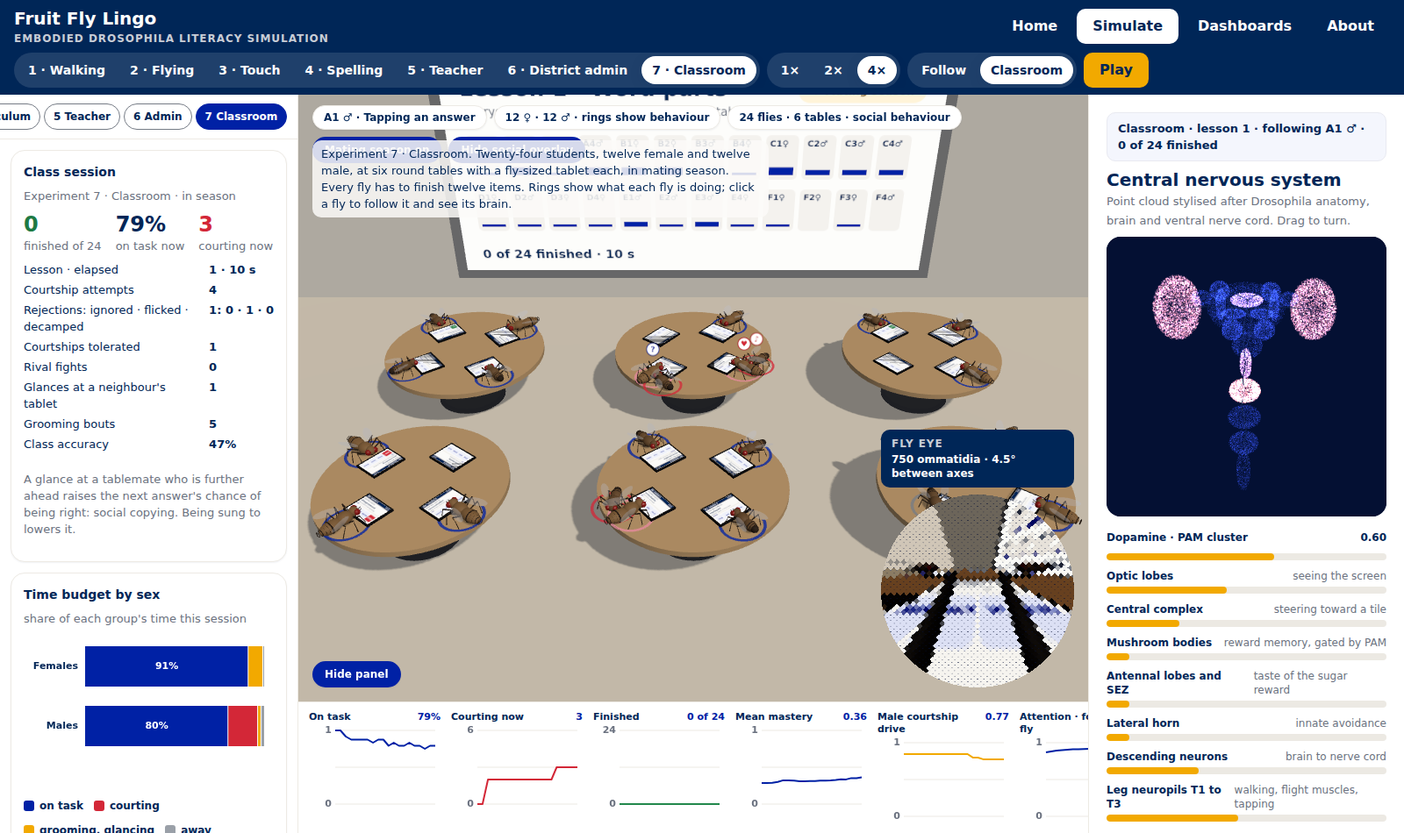
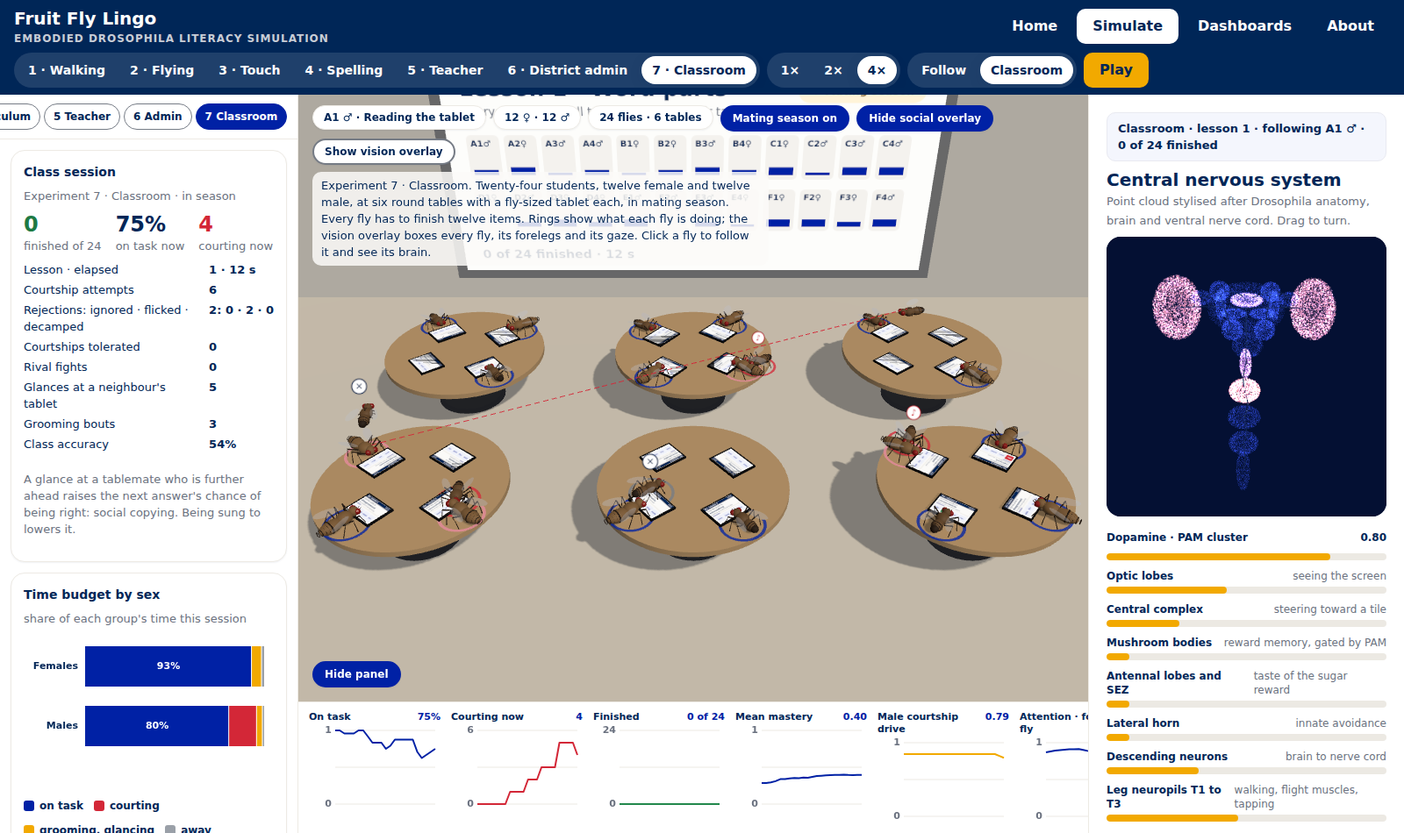
Classroom: replace the fly-eye inset with a vision overlay
With 24 flies there is no single first-person view in Experiment 7. A new
toggle draws a computer-vision layer like the district admin's screen: a
bounding box with name and confidence on every fly, forelegs boxed as hands,
a gaze ray with an eye-contact badge (own tablet, a neighbour's, lost to a
suitor or rival, done), the last twelve seconds of each path, and a detection
summary. README, About and screenshots updated.

diff --git a/index.html b/index.html
@@ -46,6 +46,7 @@ main{flex-grow:1;min-height:0;display:flex;flex-direction:column}
 /* ---- simulate ---- */
 #stage{position:relative;height:100%;display:grid;grid-template-columns:var(--dock-w) minmax(0,1fr) var(--panel-w);grid-template-rows:minmax(0,1fr) var(--dock-h)}
 #stage.nodock{--dock-w:0px}
+#vision{position:absolute;pointer-events:none}
 #scene{display:block;grid-column:2;grid-row:1;width:100%;height:100%;min-width:0;min-height:0;touch-action:none}
 #dockLeft{grid-column:1;grid-row:1/3;background:var(--surface-card);border-right:1px solid var(--border);display:flex;flex-direction:column;min-height:0;overflow:hidden}
 #dockLeft .docktabs{display:flex;gap:4px;padding:10px 12px;border-bottom:1px solid var(--border);overflow-x:auto;scrollbar-width:none;flex-shrink:0}
@@ -308,6 +309,7 @@ pre.mermaid svg{max-width:none;height:auto}
       <div id="dockBody"></div>
     </aside>
     <canvas id="scene" aria-label="3D arena: a fruit fly answering word-part questions on a smartphone"></canvas>
+    <canvas id="vision" aria-hidden="true" hidden></canvas>
     <div id="dockBottom" aria-label="Live telemetry strip">
       <div class="mini"><div class="rowlbl"><span>Tarsal adhesion</span><b id="mAdh">0 µN</b></div><canvas class="chart" id="cmAdh" aria-label="Adhesion, last 90 seconds"></canvas></div>
       <div class="mini"><div class="rowlbl"><span>Gaze contrast</span><b id="mCon">0.00</b></div><canvas class="chart" id="cmCon" aria-label="Contrast under the gaze, last 90 seconds"></canvas></div>
@@ -331,6 +333,7 @@ pre.mermaid svg{max-width:none;height:auto}
       <button type="button" class="pill toggle" id="heatBtn" aria-pressed="false">Show landing heatmap</button>
       <button type="button" class="pill toggle" id="seasonBtn" aria-pressed="true" hidden>Mating season on</button>
       <button type="button" class="pill toggle" id="overlayBtn" aria-pressed="true" hidden>Hide social overlay</button>
+      <button type="button" class="pill toggle" id="visionBtn" aria-pressed="false" hidden>Show vision overlay</button>
     </div>
     <p id="expNote">Experiment 1 · Walking. The fly walks across a phone lying on the table and presses tiles with a foreleg.</p>
     <div id="eyeLabel" aria-hidden="true"><span class="eyebrow">Fly eye</span><span>750 ommatidia · 4.5° between axes</span></div>
@@ -762,9 +765,10 @@ pre.mermaid svg{max-width:none;height:auto}
       <div class="shots">
         <figure><img loading="lazy" src="docs/screenshots/exp7-classroom.png" alt="Experiment 7: six round tables of fly students with tablets, coloured rings under each fly, a whiteboard at the back"><figcaption><strong>7 · Classroom.</strong> Twenty-four students, twelve female and twelve male, at six round tables with a tablet each. Rings show what each fly is doing: blue on task, red courting, pink being courted, amber grooming or glancing, green finished.</figcaption></figure>
         <figure><img loading="lazy" src="docs/screenshots/exp7-courtship.png" alt="Experiment 7 close-up: a male fly beside a female at her tablet with one wing extended, song and heart badges above"><figcaption><strong>7 · Courtship at a tablet.</strong> A male beside a female who keeps working. He has tapped her with a foreleg and extended one wing to sing. Click any fly to follow it and drive the brain panel.</figcaption></figure>
+        <figure><img loading="lazy" src="docs/screenshots/exp7-vision.png" alt="Experiment 7 with the vision overlay: a bounding box and name on every fly, green boxes on the forelegs, dashed gaze rays and eye-contact badges, fading movement trails"><figcaption><strong>7 · Vision overlay.</strong> The same computer-vision layer as the district admin's screen, over the whole room: a box and confidence on every fly, its forelegs boxed as hands, a gaze ray with an eye-contact badge, and the last twelve seconds of its path.</figcaption></figure>
         <figure><img loading="lazy" src="docs/screenshots/dashboards-7.png" alt="Dashboard 7: class session counters, time budget by sex, the room over time, courtship network"><figcaption><strong>Dashboard 7 · Classroom social dynamics.</strong> Courtship attempts and each kind of rejection, fights, glances and grooming, a time budget for females and males, mean male courtship drive over time, a courtship network, and lesson times in and out of season.</figcaption></figure>
       </div>
-      <p>Every fly has to finish the same twelve items, and a lesson ends only when the last one does. In between, the flies behave like flies. A male may orient toward a female, follow her, tap her with a foreleg and sing by vibrating one extended wing. A busy, unreceptive female usually ignores him and keeps tapping, or flicks her wings and kicks, or decamps on a short flight. Each rejection lowers his courtship drive, the courtship-conditioning effect, so the room settles as the lesson goes on. Rival males trade wing threats and lunges, flies groom between trials, a glance at a tablemate who is further ahead makes the next answer more likely to be right, and busy tablemates keep each other on task. Turn mating season off to compare how long the class takes.</p>
+      <p>Every fly has to finish the same twelve items, and a lesson ends only when the last one does. In between, the flies behave like flies. A male may orient toward a female, follow her, tap her with a foreleg and sing by vibrating one extended wing. A busy, unreceptive female usually ignores him and keeps tapping, or flicks her wings and kicks, or decamps on a short flight. Each rejection lowers his courtship drive, the courtship-conditioning effect, so the room settles as the lesson goes on. Rival males trade wing threats and lunges, flies groom between trials, a glance at a tablemate who is further ahead makes the next answer more likely to be right, and busy tablemates keep each other on task. Turn mating season off to compare how long the class takes. With twenty-four flies there is no single fly-eye view here; instead a vision overlay, like the district admin's, boxes every fly and its forelegs, draws where it is looking with an eye-contact badge (its own tablet, a neighbour's, or lost to a suitor or rival), and traces its recent path.</p>
       <article class="card"><h3>Behaviour sources for the classroom</h3><ul class="refs">
         <li>Connolly, K., &amp; Cook, R. (1973). Rejection responses by female <em>Drosophila melanogaster</em>: their ontogeny, causality and effects upon the behaviour of the courting male. <em>Behaviour, 44</em>, 142–166.</li>
         <li>Siegel, R. W., &amp; Hall, J. C. (1979). Conditioned responses in courtship behavior of normal and mutant <em>Drosophila</em>. <em>PNAS, 76</em>(7), 3430–3434.</li>
@@ -890,7 +894,7 @@ const EXP = {
   4: { name: 'Spelling', note: 'Experiment 4 · Spelling. A real-size laptop. The fly hovers to read the meaning and the word-part hints, then flies key to key and presses each letter to spell the word.', phys: 'Real-size laptop · keys', phoneScale: 1, layout: 'grid', jitter: 0, camOffset: [-45, 34, 60], laptop: true },
   5: { name: 'Teacher', note: 'Experiment 5 · Teacher. A fly-sized laptop with a gradebook of the flies from Experiments 1 to 4. The screen is not touchable: the teacher stays on the trackpad and steers the cursor with one foreleg, presses the pad to click, and steps over to tap keys.', phys: 'Fly-sized laptop · trackpad only, no touch', phoneScale: 0.07, layout: 'grid', jitter: 0, camOffset: [-6, 5, 8.5], laptop: true },
   6: { name: 'District admin', note: 'Experiment 6 · District admin. The admin fly watches nine students on a 3 × 3 grid of webcam sessions. A vision overlay boxes each fly, its forelegs and its gaze; FlyAI flags suspected cheating and the admin steers the cursor to the tile and sends a check-in.', phys: 'Fly-sized laptop · trackpad only · vision overlay', phoneScale: 0.07, layout: 'grid', jitter: 0, camOffset: [-6, 5, 8.5], laptop: true },
-  7: { name: 'Classroom', note: 'Experiment 7 · Classroom. Twenty-four students, twelve female and twelve male, at six round tables with a fly-sized tablet each, in mating season. Every fly has to finish twelve items. Rings show what each fly is doing; click a fly to follow it and see its brain.', phys: '24 flies · 6 tables', phoneScale: 1, layout: 'grid', jitter: 0, camOffset: [-12, 10, 17], classroom: true },
+  7: { name: 'Classroom', note: 'Experiment 7 · Classroom. Twenty-four students, twelve female and twelve male, at six round tables with a fly-sized tablet each, in mating season. Every fly has to finish twelve items. Rings show what each fly is doing; the vision overlay boxes every fly, its forelegs and its gaze. Click a fly to follow it and see its brain.', phys: '24 flies · 6 tables', phoneScale: 1, layout: 'grid', jitter: 0, camOffset: [-12, 10, 17], classroom: true },
 };
 let experiment = 1;
 
@@ -1986,6 +1990,7 @@ eyeScene.add(new THREE.Mesh(new THREE.PlaneGeometry(2, 2), new THREE.ShaderMater
     }`,
 })));
 function renderEye() {
+  if (experiment === 7) return; // many flies: no single fly-eye view in the classroom
   const r = sceneCanvas.getBoundingClientRect(); if (r.width < 700) return;
   renderer.setRenderTarget(eyeRT); renderer.render(scene, eyeCam); renderer.setRenderTarget(null);
   const size = 220, pad = 16, x = r.width - size - pad;
@@ -2356,6 +2361,7 @@ function stepClassroom(dt, now) {
   for (let i = timers.length - 1; i >= 0; i--) if (timers[i].at <= cls.time) { const f = timers[i].fn; timers.splice(i, 1); f(); }
   cls.students.forEach(s => stepStudent(s, dt));
   cls.students.forEach(s => stepLegs(s, dt));
+  if (cls.time - (cls.trailAt || 0) > 0.25) { cls.trailAt = cls.time; cls.students.forEach(s => { (s.trail || (s.trail = [])).push([s.pos.x, s.pos.y, s.pos.z]); if (s.trail.length > 48) s.trail.shift(); }); }
   const f = cls.students[cls.focal];
   flyState.pos.copy(f.pos); flyState.airborne = f.airborne;
   // the focal fly drives the brain panel
@@ -2388,7 +2394,7 @@ function classroomReset() {
   cls.time = 0; cls.lesson = 1; cls.bellAt = null; cls.lessonStart = 0; cls.lessonRejects = 0; cls.lessonCourts = 0; cls.hist = []; cls.log = []; cls.lessons = []; cls.matrix.fill(0); timers.length = 0;
   Object.keys(cls.totals).forEach(k => { cls.totals[k] = 0; });
   cls.students.forEach(s => { s.pos.copy(s.home); s.yaw = s.homeYaw; s.at = s.table; s.progress = 0; s.mastery = 0.15 + 0.35 * Math.random(); s.attention = 0.85; s.partner = s.courtedBy = s.rival = null; s.flight = s.goal = s.after = s.next = null; s.airborne = false; s.tapLeg = null; s.wingExt = s.threat = s.flick = s.lunge = 0; s.glyphT = 0;
-    s.drive = s.sex === 'M' ? 0.6 + 0.4 * Math.random() : 0; s.receptive = s.sex === 'F' ? 0.08 + 0.12 * Math.random() : 0; Object.keys(s.stats).forEach(k => { s.stats[k] = 0; }); newItem(s); plantStudent(s); setState(s, 'read', readTime(s)); });
+    s.trail = []; s.drive = s.sex === 'M' ? 0.6 + 0.4 * Math.random() : 0; s.receptive = s.sex === 'F' ? 0.08 + 0.12 * Math.random() : 0; Object.keys(s.stats).forEach(k => { s.stats[k] = 0; }); newItem(s); plantStudent(s); setState(s, 'read', readTime(s)); });
 }
 window.__cls = cls; window.__clsFocus = i => setFocal(i); // debug hooks, like window.__lap
 function classroomStart() { cls.students.forEach(s => { if (!s.flight) plantStudent(s); }); drawTablets(); drawBoard(); game.feedback = `${cls.students[cls.focal].name} is on task. Click any fly to follow it.`; }
@@ -2404,7 +2410,7 @@ function classroomStart() { cls.students.forEach(s => { if (!s.flight) plantStud
   });
 }
 function setFocal(i) {
-  cls.focal = i; const s = cls.students[i]; s.rig.head.add(eyeCam);
+  cls.focal = i; const s = cls.students[i]; flyState.pos.copy(s.pos);
   game.feedback = `Following ${s.name} ${s.sex === 'F' ? '♀' : '♂'} at table ${'ABCDEF'[s.table]}.`; renderTrial();
   if (camMode === 'follow') { controls.target.copy(s.pos); camera.position.copy(s.pos).add(new THREE.Vector3(...EXP[7].camOffset)); }
 }
@@ -2427,6 +2433,55 @@ function renderClassTrial() {
   $('stWords').textContent = Math.min(s.progress, CLS.items); $('stTaps').textContent = s.stats.taps; $('stAcc').textContent = s.stats.taps ? Math.round(s.stats.correct / s.stats.taps * 100) + '%' : '0%';
   $('phasePill').textContent = `${s.name} ${SEXSYM(s)} · ${doing(s)}`;
   $('memory').innerHTML = S.filter(o => o.table === s.table).map(o => `<div class="m"><span>${o.name} ${SEXSYM(o)}</span><div class="bar${o.progress >= CLS.items ? ' done' : ''}"><span style="width:${Math.round(Math.min(1, o.progress / CLS.items) * 100)}%"></span></div><span class="sub">${doing(o).toLowerCase()}</span></div>`).join('');
+}
+
+// ---------- computer-vision overlay (like the district admin's screen) ----------
+// Projects each student's body box, forelegs ("hands"), gaze ray with an eye-contact badge, and its recent path onto the arena.
+let visionOn = false;
+const visionCanvas = document.getElementById('vision'), vc = visionCanvas.getContext('2d');
+const VBOX = [-2.6, 2.6, 0, 2.6, -3.9, 2.3], vP = new THREE.Vector3(), vH = new THREE.Vector3();
+function toPx(v, r) { vP.copy(v).project(camera); return vP.z > 1 ? null : [(vP.x + 1) / 2 * r.width, (1 - vP.y) / 2 * r.height]; }
+function gazeOf(s) {
+  if (onTask(s)) return { p: tabPoint(s, CLS.tw / 2, 64), k: 'task' };
+  if (s.state === 'peek' && s.peekAt) return { p: tabPoint(s.peekAt, CLS.tw / 2, 64), k: 'peek' };
+  const o = s.state === 'fight' ? s.rival : s.state === 'court' ? s.partner : null;
+  if (o) return { p: o.pos.clone().setY(o.pos.y + 1.3), k: 'lost' };
+  const a = s.yaw + s.headYaw; return { p: s.pos.clone().add(new THREE.Vector3(Math.sin(a) * 6, 0.3, Math.cos(a) * 6)), k: s.progress >= CLS.items ? 'done' : 'lost' };
+}
+const GAZE = { task: [C.gator, 'rgba(242,169,0,0.95)', 'eye contact · task'], peek: [C.alachua, 'rgba(242,169,0,0.95)', 'eye contact · neighbour'], lost: [C.bottlebrush, 'rgba(211,39,55,0.95)', 'eye contact · lost'], done: [C.control, 'rgba(117,123,133,0.9)', 'done · looking around'] };
+function drawVision() {
+  const r = { width: sceneCanvas.clientWidth, height: sceneCanvas.clientHeight }, pr = Math.min(devicePixelRatio, 2);
+  if (visionCanvas.width !== Math.round(r.width * pr) || visionCanvas.height !== Math.round(r.height * pr)) { visionCanvas.width = Math.round(r.width * pr); visionCanvas.height = Math.round(r.height * pr); }
+  Object.assign(visionCanvas.style, { left: sceneCanvas.offsetLeft + 'px', top: sceneCanvas.offsetTop + 'px', width: r.width + 'px', height: r.height + 'px' });
+  vc.setTransform(pr, 0, 0, pr, 0, 0); vc.clearRect(0, 0, r.width, r.height); vc.lineJoin = 'round';
+  const count = { fly: 0, hands: 0, task: 0, peek: 0, lost: 0, done: 0 };
+  cls.students.forEach(s => {
+    const R = s.rig;
+    // trajectory: the last 12 s, fading
+    const T = s.trail || []; let prev = null;
+    T.forEach((q, i) => { const p = toPx(vH.set(q[0], q[1] + 0.1, q[2]), r); if (p && prev) { vc.strokeStyle = `rgba(0,33,165,${0.08 + 0.6 * i / T.length})`; vc.lineWidth = 2; vc.beginPath(); vc.moveTo(prev[0], prev[1]); vc.lineTo(p[0], p[1]); vc.stroke(); } prev = p; });
+    // body box from the projected corners of a fly-sized box
+    let x0 = 1e9, y0 = 1e9, x1 = -1e9, y1 = -1e9, ok = true;
+    for (let c = 0; c < 8; c++) { vH.set(VBOX[c & 1], VBOX[2 + (c >> 1 & 1)], VBOX[4 + (c >> 2 & 1)]); const p = toPx(R.group.localToWorld(vH), r); if (!p) { ok = false; break; } x0 = Math.min(x0, p[0]); x1 = Math.max(x1, p[0]); y0 = Math.min(y0, p[1]); y1 = Math.max(y1, p[1]); }
+    if (!ok || x1 < 0 || y1 < 0 || x0 > r.width || y0 > r.height) return;
+    count.fly++; const bh = y1 - y0, focal = s.i === cls.focal;
+    vc.setLineDash([]); vc.strokeStyle = 'rgba(0,33,165,0.95)'; vc.lineWidth = focal ? 2.5 : 1.5; vc.strokeRect(x0, y0, x1 - x0, y1 - y0);
+    const conf = Math.min(0.99, 0.62 + bh / 220 + 0.02 * Math.sin(cls.time * 3 + s.i)); const tag = `${s.name}${SEXSYM(s)} ${conf.toFixed(2)}`;
+    vc.font = `700 9px ${DISPLAY}`; vc.textAlign = 'left'; vc.textBaseline = 'middle'; const tw = vc.measureText(tag).width + 6;
+    vc.fillStyle = 'rgba(0,33,165,0.95)'; vc.fillRect(x0, y0 - 12, tw, 12); vc.fillStyle = '#fff'; vc.fillText(tag, x0 + 3, y0 - 6);
+    // forelegs, labelled hands
+    const hs = Math.max(6, Math.min(14, bh * 0.16));
+    if (!s.airborne) { [0, 1].forEach(j => { const p = toPx(R.legs[j].foot, r); if (!p) return; count.hands++; vc.strokeStyle = 'rgba(34,136,76,0.95)'; vc.lineWidth = 1.5; vc.strokeRect(p[0] - hs / 2, p[1] - hs / 2, hs, hs); if (R.legs[j] === s.tapLeg) { vc.fillStyle = 'rgba(34,136,76,0.35)'; vc.fillRect(p[0] - hs / 2, p[1] - hs / 2, hs, hs); } });
+      if (bh > 40) { vc.fillStyle = 'rgba(34,136,76,0.95)'; vc.font = `700 8px ${DISPLAY}`; vc.fillText('hands', x0, y1 + 7); } }
+    // gaze ray and eye-contact badge
+    const g = gazeOf(s); count[g.k]++; R.head.getWorldPosition(vH); const hp = toPx(vH, r), gp = toPx(g.p, r);
+    if (hp && gp) { vc.strokeStyle = GAZE[g.k][1]; vc.lineWidth = 1.5; vc.setLineDash([3, 3]); vc.beginPath(); vc.moveTo(hp[0], hp[1]); vc.lineTo(gp[0], gp[1]); vc.stroke(); vc.setLineDash([]); vc.fillStyle = GAZE[g.k][1]; vc.beginPath(); vc.arc(gp[0], gp[1], 2.5, 0, Math.PI * 2); vc.fill(); }
+    if (bh > 28 || focal) { const t = GAZE[g.k][2]; vc.font = `700 8px ${DISPLAY}`; const w = vc.measureText(t).width + 10; vc.fillStyle = GAZE[g.k][0]; vc.beginPath(); vc.roundRect(x0, y1 + (bh > 40 ? 14 : 3), w, 13, 6.5); vc.fill(); vc.fillStyle = '#fff'; vc.fillText(t, x0 + 5, y1 + (bh > 40 ? 20.5 : 9.5)); }
+  });
+  // detection summary, bottom right (where the fly-eye inset sits in the other experiments)
+  const lines = [`Vision · ${count.fly} flies · ${count.hands} hands`, `eye contact: ${count.task} task · ${count.peek} neighbour · ${count.lost} lost · ${count.done} done`];
+  vc.font = `700 11px ${DISPLAY}`; const w = Math.max(...lines.map(l => vc.measureText(l).width)) + 20; const y = r.height - 58;
+  const x = r.width - w - 16; vc.fillStyle = 'rgba(0,38,87,0.88)'; vc.beginPath(); vc.roundRect(x, y, w, 44, 10); vc.fill(); vc.fillStyle = '#fff'; lines.forEach((l, i) => vc.fillText(l, x + 10, y + 14 + i * 16));
 }
 
 // ---------- Cameras ----------
@@ -2459,7 +2514,7 @@ function setExperiment(n) {
   $('gripPill').textContent = n === 7 ? '12 ♀ · 12 ♂' : n === 3 ? 'Forelegs holding the phone' : n === 4 ? 'Tarsal pads on the keys' : n >= 5 ? 'Foreleg on the trackpad' : 'Tarsal pads gripping glass';
   document.querySelectorAll('[data-cam="phone"]').forEach(b => { b.textContent = cfg.classroom ? 'Classroom' : cfg.laptop ? 'Laptop' : 'Phone'; });
   const wasClass = classroom.visible; classroom.visible = !!cfg.classroom; fly.visible = !cfg.classroom;
-  $('pathsBtn').hidden = $('heatBtn').hidden = !!cfg.classroom; $('seasonBtn').hidden = $('overlayBtn').hidden = !cfg.classroom;
+  $('pathsBtn').hidden = $('heatBtn').hidden = !!cfg.classroom; $('seasonBtn').hidden = $('overlayBtn').hidden = $('visionBtn').hidden = !cfg.classroom; $('eyeLabel').hidden = !!cfg.classroom; $('vision').hidden = !(cfg.classroom && visionOn);
   $('stWords').nextElementSibling.textContent = cfg.classroom ? 'items done' : 'words built';
   $('memHead').textContent = cfg.classroom ? 'Tablemates · lesson progress' : 'Word part memory · Kenyon cell to MBON weights';
   document.querySelectorAll('.mini[data-cls]').forEach(el => { el.hidden = !cfg.classroom; }); document.querySelectorAll('#dockBottom .mini:not([data-cls])').forEach(el => { el.hidden = !!cfg.classroom; }); requestAnimationFrame(() => sizeCharts()); // size the strip charts that just became visible
@@ -2487,6 +2542,7 @@ function setExperiment(n) {
 document.querySelectorAll('[data-exp]').forEach(b => b.addEventListener('click', () => setExperiment(Number(b.dataset.exp))));
 $('pathsBtn').addEventListener('click', () => { showPaths = !showPaths; $('pathsBtn').setAttribute('aria-pressed', String(showPaths)); $('pathsBtn').textContent = showPaths ? 'Hide paths' : 'Show paths'; Object.entries(trajGroups).forEach(([k, g]) => { g.visible = showPaths && Number(k) === experiment; }); ghostLine.visible = showPaths && experiment !== 3 && !!agent.ghost; });
 $('seasonBtn').addEventListener('click', () => { cls.season = !cls.season; $('seasonBtn').setAttribute('aria-pressed', String(cls.season)); $('seasonBtn').textContent = cls.season ? 'Mating season on' : 'Mating season off'; clsLog(cls.season ? 'Mating season: courtship drive restored.' : 'Out of season: courtship drive drops to a tenth.'); drawBoard(); });
+$('visionBtn').addEventListener('click', () => { visionOn = !visionOn; $('visionBtn').setAttribute('aria-pressed', String(visionOn)); $('visionBtn').textContent = visionOn ? 'Hide vision overlay' : 'Show vision overlay'; $('vision').hidden = !visionOn; });
 $('overlayBtn').addEventListener('click', () => { clsOverlay = !clsOverlay; $('overlayBtn').setAttribute('aria-pressed', String(clsOverlay)); $('overlayBtn').textContent = clsOverlay ? 'Hide social overlay' : 'Show social overlay'; });
 $('heatBtn').addEventListener('click', () => { showHeat = !showHeat; if (EXP[experiment].laptop) drawLaptop(); $('heatBtn').setAttribute('aria-pressed', String(showHeat)); $('heatBtn').textContent = showHeat ? 'Hide landing heatmap' : 'Show landing heatmap'; redrawScreen(performance.now()); });
 
@@ -2577,7 +2633,7 @@ function frame(now) {
     if (experiment !== 7) sampleTelemetry(now);
   }
   updateCamera(); controls2.update();
-  if (view === 'simulate') { renderer.render(scene, camera); renderEye(); renderer2.render(scene2, camera2); if (drawDashboards(now)) { if (experiment === 7) drawClassStrip(); else drawMiniStrip(); } }
+  if (view === 'simulate') { renderer.render(scene, camera); renderEye(); if (experiment === 7 && visionOn) drawVision(); renderer2.render(scene2, camera2); if (drawDashboards(now)) { if (experiment === 7) drawClassStrip(); else drawMiniStrip(); } }
   else if (view === 'dash') drawDashboards(now);
 }
 requestAnimationFrame(frame);

diff --git a/README.md b/README.md
@@ -133,14 +133,20 @@ It is mating season, and the flies behave like flies. Each student is a lightwei
 - **Grooming and glancing.** Flies groom between trials. A fly may glance at a tablemate who is further ahead, which raises the chance that its next answer is right.
 - **Co-action.** Attention rises when tablemates are on task and falls when courtship happens at the table or when a male is singing beside you.
 
-Rings under the flies show what each one is doing: blue on task, red courting, pink being courted, amber grooming or glancing, green finished, grey away from the tablet. Dashed red lines join courting pairs, and small badges mark a song, a rejection, a fight or a finished lesson. Toggle the overlay and mating season from the pills above the arena. The camera starts on the whole room; click any fly to follow it, see through its eyes and drive the brain panel with its behaviour, which lights the antennal lobes and lateral horn during courtship and the mesothoracic neuropil during song.
+Rings under the flies show what each one is doing: blue on task, red courting, pink being courted, amber grooming or glancing, green finished, grey away from the tablet. Dashed red lines join courting pairs, and small badges mark a song, a rejection, a fight or a finished lesson. Toggle that overlay and mating season from the pills above the arena.
+
+With twenty-four flies there is no single fly-eye inset here. Instead, a third pill turns on a computer-vision overlay like the district admin's screen: a bounding box with name and confidence on every fly, its forelegs boxed as hands (filled while tapping), a dashed gaze ray from its head with an eye-contact badge (green on its own tablet, amber on a neighbour's, red when lost to a suitor or rival, grey once done), the last twelve seconds of its path, and a detection summary in the corner.
+
+The camera starts on the whole room; click any fly to follow it and drive the brain panel with its behaviour, which lights the antennal lobes and lateral horn during courtship and the mesothoracic neuropil during song.
 
 Dashboard 7, Classroom social dynamics, shows the class on task, finished and courting, counts of courtship attempts and of each kind of rejection, fights, glances and grooming bouts, a time budget for females and males, the room over time with mean male drive, a courtship network matrix, lesson completion times in and out of season, and a live roster of all 24.
 
 | | |
 | --- | --- |
-| ![Experiment 7: six round tables of fly students with tablets, coloured rings under each fly, a whiteboard at the back](docs/screenshots/exp7-classroom.png) | ![Dashboard 7: class session counters, time budget by sex, the room over time, courtship network](docs/screenshots/dashboards-7.png) |
-| **The classroom.** Twenty-four students at six tables, rings showing behaviour, the whiteboard tracking the lesson. | **Dashboard 7.** Time budget by sex, courtship and rejection counts, the room over time, the courtship network. |
+| ![Experiment 7: six round tables of fly students with tablets, coloured rings under each fly, a whiteboard at the back](docs/screenshots/exp7-classroom.png) | ![Experiment 7 with the vision overlay: boxes, hands, gaze rays, eye-contact badges and trails on every fly](docs/screenshots/exp7-vision.png) |
+| **The classroom.** Twenty-four students at six tables, rings showing behaviour, the whiteboard tracking the lesson. | **Vision overlay.** Boxes and confidence, hands, gaze rays with eye-contact badges, and trails. |
+| ![Experiment 7 close-up: a male beside a female at her tablet with one wing extended](docs/screenshots/exp7-courtship.png) | ![Dashboard 7: class session counters, time budget by sex, the room over time, courtship network](docs/screenshots/dashboards-7.png) |
+| **Courtship at a tablet.** He has tapped her and sings with one wing while she keeps working. | **Dashboard 7.** Time budget by sex, courtship and rejection counts, the room over time, the courtship network. |
 
 The landing scatter is deliberate: each answer is aimed at the tile centre plus a small normal error (about 6 px walking, 14 px flying, 8 px touch on the 390 px wide screen), which is what makes the heatmap informative rather than a set of points.
 

diff --git a/CLAUDE.md b/CLAUDE.md
@@ -11,7 +11,7 @@
 Fruit Fly Lingo is the interaction layer of the Embodied Drosophila Literacy Simulation (EDLS). It is a single static page (`index.html`, three.js loaded from jsdelivr, no build step) deployed on Vercel from this repository, `jayrosen-design/fly-lingo`, branch `main`.
 
 - A procedural fruit fly with six IK legs, wings and a head-mounted compound-eye camera learns English morphology (prefix + root + suffix) on the screens people learn on.
-- Seven experiments share one brain model and curriculum: 1 Walking (phone on a table), 2 Flying (climb to read, dive to answer, paths and landing heatmap), 3 Touch (fly-sized phone, swipe and tap), 4 Spelling (real-size laptop, fly key to key), 5 Teacher (fly-sized laptop, trackpad only, grades Flies A to D from a gradebook fed by the other experiments' real trials), 6 District admin (3 × 3 webcam grid of student simulations, vision overlay boxing flies, forelegs and gaze, FlyAI rule-based flags, seeded cheating scored for precision), 7 Classroom (24 student flies, 12 female and 12 male, at six round tables with a fly-sized tablet each in mating season: courtship with one-wing song, female rejection by ignoring, wing flick and kick or decamping, courtship conditioning lowering male drive, rival wing threats and lunges, grooming, glancing at neighbours, co-action; every fly must finish twelve items; click a fly to follow it).
+- Seven experiments share one brain model and curriculum: 1 Walking (phone on a table), 2 Flying (climb to read, dive to answer, paths and landing heatmap), 3 Touch (fly-sized phone, swipe and tap), 4 Spelling (real-size laptop, fly key to key), 5 Teacher (fly-sized laptop, trackpad only, grades Flies A to D from a gradebook fed by the other experiments' real trials), 6 District admin (3 × 3 webcam grid of student simulations, vision overlay boxing flies, forelegs and gaze, FlyAI rule-based flags, seeded cheating scored for precision), 7 Classroom (24 student flies, 12 female and 12 male, at six round tables with a fly-sized tablet each in mating season: courtship with one-wing song, female rejection by ignoring, wing flick and kick or decamping, courtship conditioning lowering male drive, rival wing threats and lunges, grooming, glancing at neighbours, co-action; every fly must finish twelve items; click a fly to follow it; no fly-eye inset here, instead an optional vision overlay boxes every fly, its forelegs and its gaze with eye-contact badges and trails).
 - A stylised 55,000-point nervous system lights up by region; the memory rule is Δw = η(R − V), η = 0.22; seven dashboards (kinematic, connectomic, psychometric with G-DINA, Half-Life Regression and a Rasch Wright map, curriculum with a toy mLSTM and Decision Transformer divergence, teacher navigation with Fitts' law, district proctoring, classroom social dynamics) run on live telemetry and also dock beside the arena.
 - Views: Home (default, experiment cards), Simulate, Dashboards, About (research library with the PDFs under `docs/research/`, all 187 cited sources, and the README's Mermaid architecture diagrams).
 - Styling uses a University of Florida palette (core blue, dark blue, alachua, gator, bottlebrush) with Neulis Sans and Liebling and system fallbacks. Do not name the reading program the design tokens came from in the app or README.
